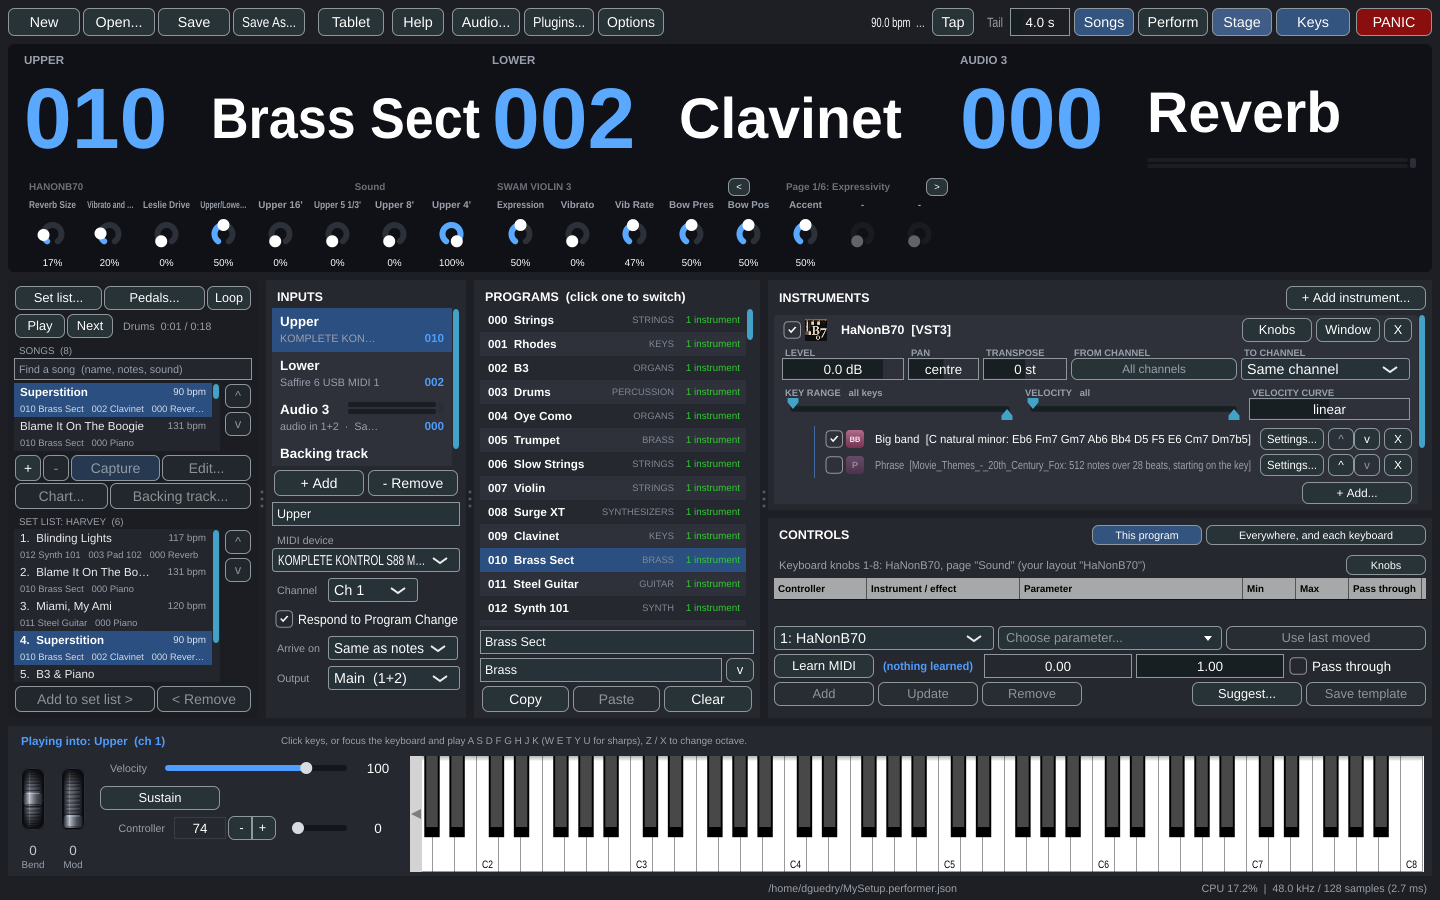
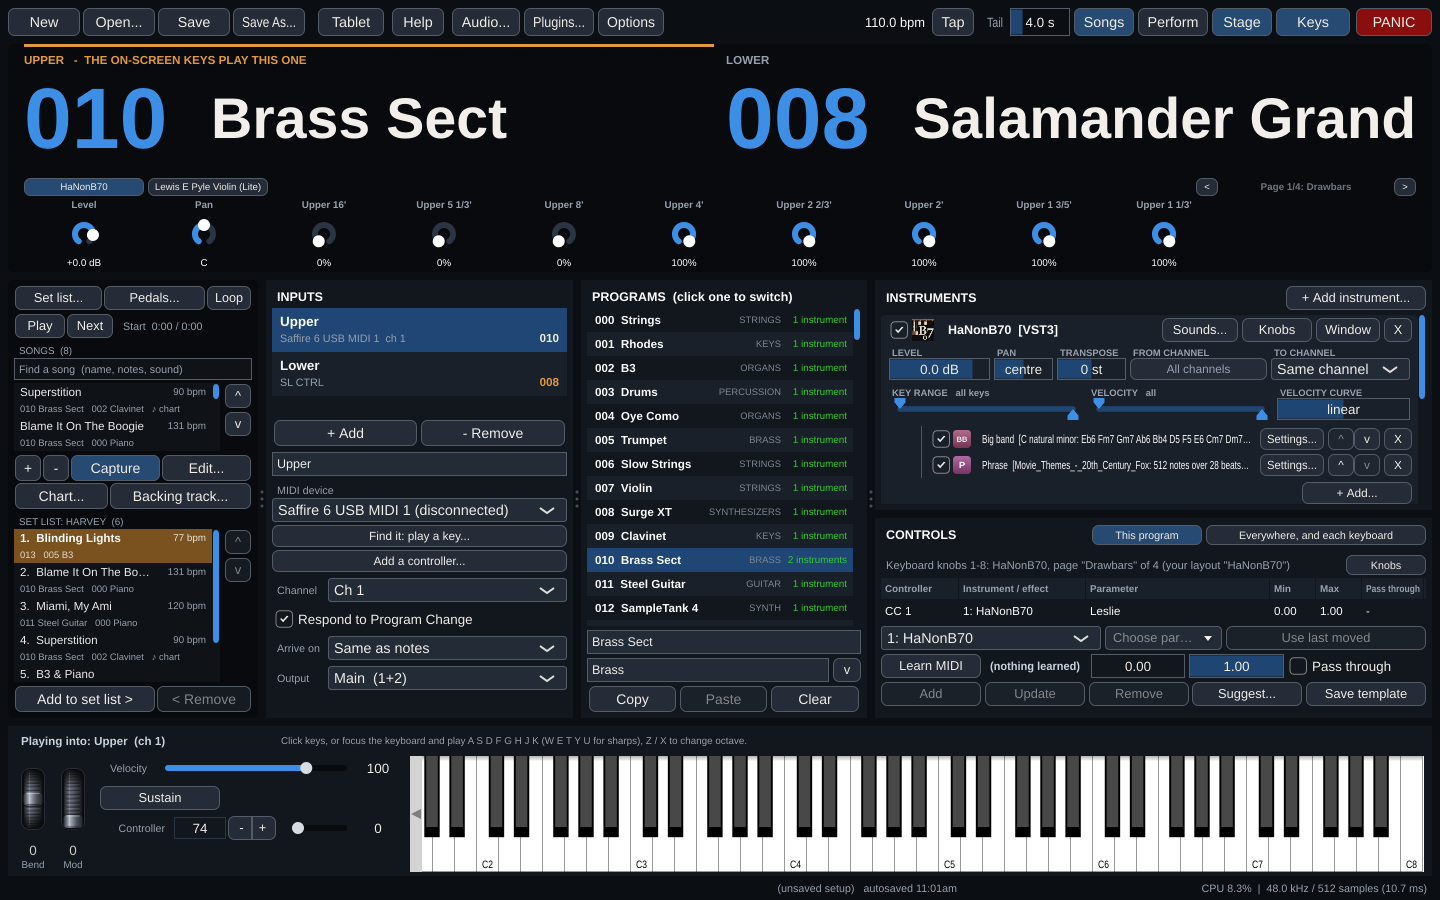
README: current screenshots, and the sampled-instrument menu
The main window, Stage and Perform views taken from the current build: a
Windows plugin with MIDI effects layered over a built-in sampled violin,
the Salamander Grand on the lower keyboard. A new picture shows Add
instrument's sampled instruments by kind of sound, and adding a library
from its .zip.

diff --git a/README.md b/README.md
@@ -13,7 +13,7 @@ with every knob, drawbar and menu live under your finger. Pull a drawbar on the
 tablet and the organ on stage moves.
 
 <p align="center">
-  <img src="docs/images/stagerig.png" alt="StageRig: songs and a set list with tempos and chart markers, two keyboards and an audio input with its level meter, a program list grouped by kind, a SWAM Alto Sax with its key and velocity ranges, and the on-screen keyboard with pitch and mod wheels" width="900">
+  <img src="docs/images/stagerig.png" alt="StageRig: songs and a set list with tempos, two keyboards, a program list grouped by kind, a Brass Sect program layering a Windows organ plugin (HaNonB70), with big-band and phrase MIDI effects, over a built-in sampled violin, the Controls panel and the on-screen keyboard" width="900">
 </p>
 
 StageRig exists because the live hosts keyboard players rely on -- MainStage,
@@ -46,6 +46,9 @@ other plugin, and it plays sampled instruments itself.
   Instruments are sorted by kind of sound -- pianos, organs, strings,
   woodwinds -- from their names, the same way for every library, and an
   instrument recorded in several playing styles is listed once.
+
+  ![Add instrument, Sampled instrument (built in): the kinds of sound, the strings among them, and the choices to add a library from its .zip, from a folder, or one instrument file](docs/images/sampled-instruments.png)
+
 - **Separate pad boxes, knob boxes and footswitches** count as part of a
   keyboard: an Akai LPD8's knobs or a MIDI footswitch are learned, mapped
   and used exactly like the keyboard's own.
@@ -249,11 +252,11 @@ plugins, select an input and give it a MIDI device, click a program, press
 in letters a foot high, and under it the page of knobs the keyboard's own knobs
 are on.
 
-![Perform: three inputs' programs in large type, and under each the knobs page the keyboard is on -- a Hammond's drawbars, a SWAM violin's expression and vibrato](docs/images/perform-view.png)
+![Perform: two keyboards' programs in large type, Brass Sect and B3, and under them the drawbars page the upper keyboard's knobs are on](docs/images/perform-view.png)
 
 With the editing panes shown, **Stage** keeps the performance view above them.
 
-![The Stage view above the editing panes: songs and the set list, inputs, programs, an instrument with its MIDI effects, and the Controls panel](docs/images/stage-view.png)
+![The Stage view above the editing panes: Brass Sect and Salamander Grand in large type with the drawbar knobs, then songs and the set list, inputs, programs, an instrument with its MIDI effects, and the Controls panel](docs/images/stage-view.png)
 
 An instrument's **Knobs** window is what the keyboard's eight knobs turn on it,
 in pages; the layout is the plugin's, so it is the same in every program.
